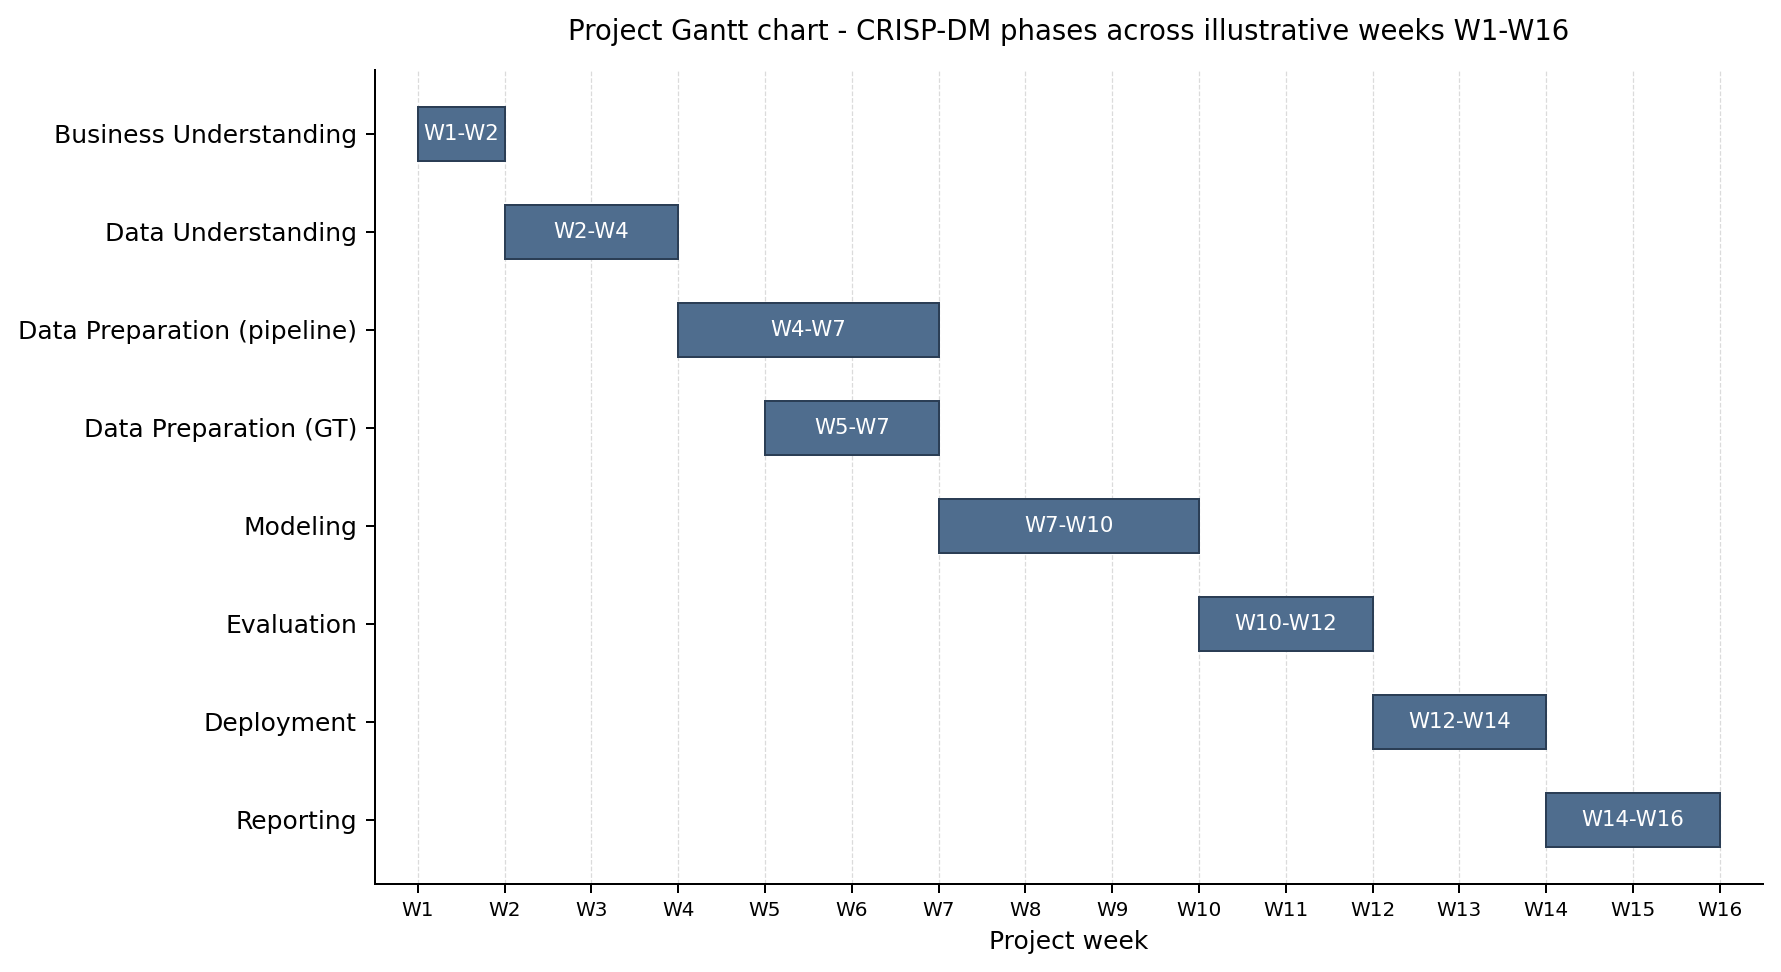
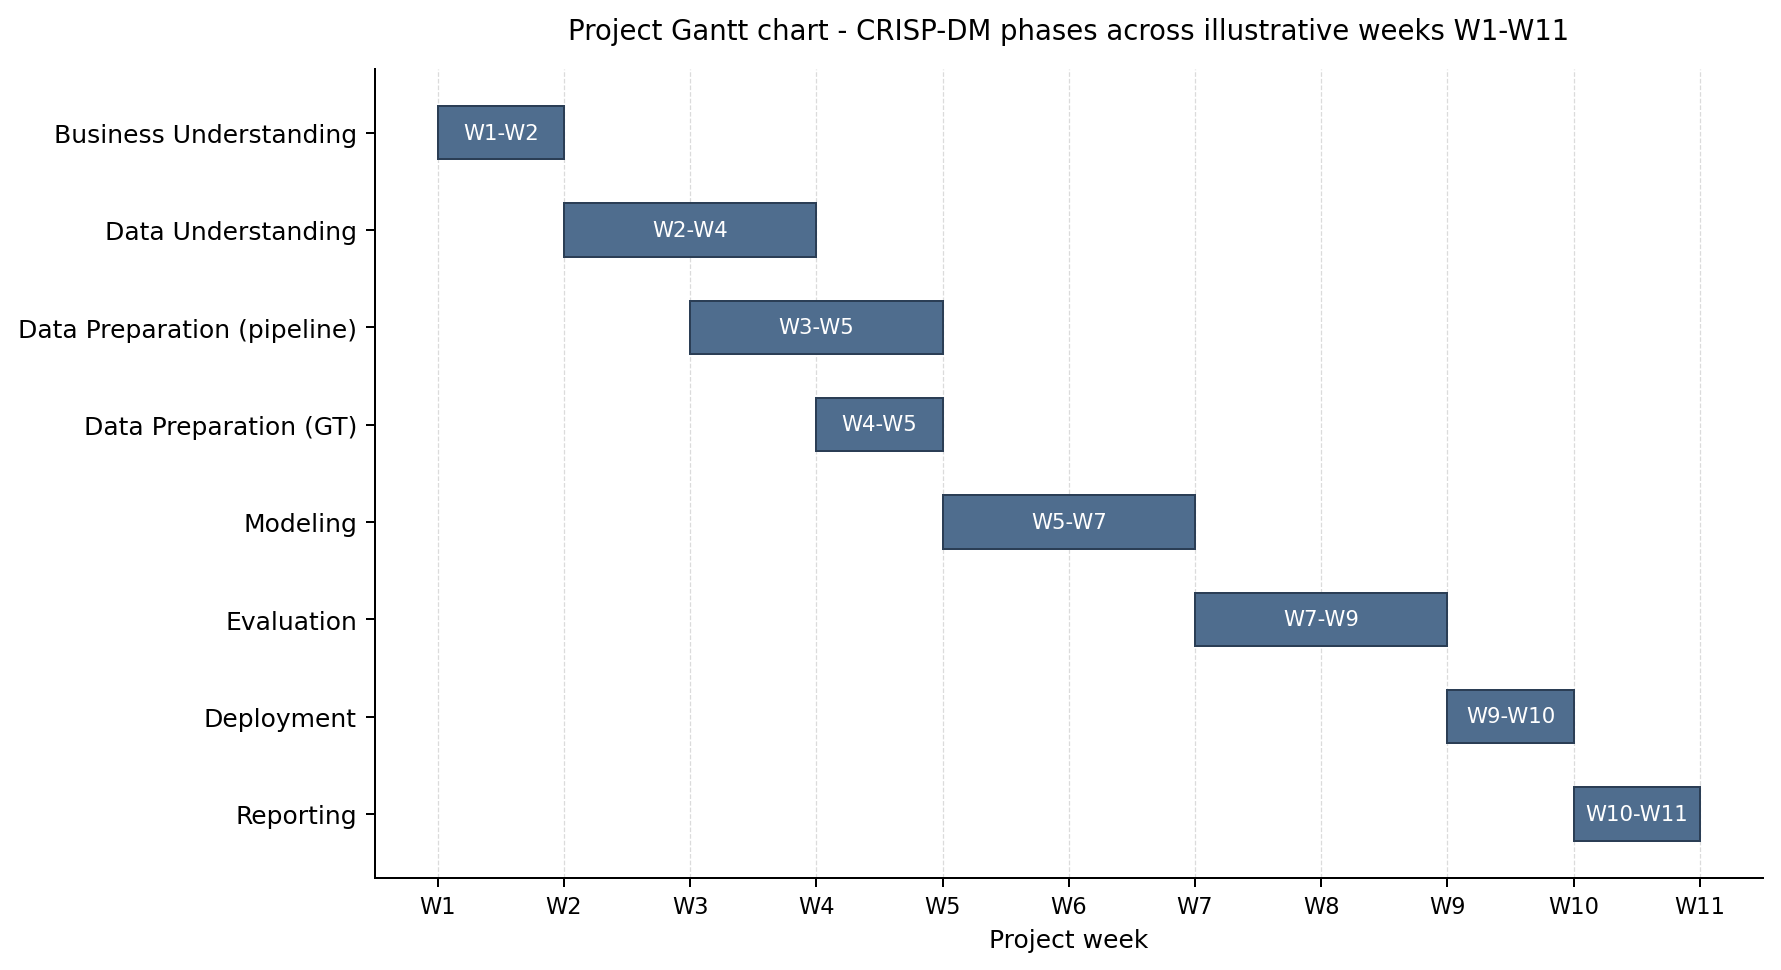
docs: compress Gantt to 11 weeks and add Mermaid source alongside PNG
Shrink the project timeline to W1-W11 per assessor guidance. Both the
PNG (regenerated by scripts/render_gantt.py) and Table 2 are updated to
the same compressed schedule. The same plan is now also expressed as a
Mermaid gantt source block in report.md, which renders directly in
GitHub and any Mermaid-aware viewer while pandoc continues to embed the
PNG for PDF and DOCX. Milestone weeks in section 4.3 and the
action_position discovery window in section 4.5 remapped to match.

diff --git a/scripts/render_gantt.py b/scripts/render_gantt.py
@@ -1,9 +1,13 @@
 """Render the project Gantt chart for the CRISP-DM timeline (Section 4.2).
 
 Produces a single PNG showing one horizontal bar per CRISP-DM phase across
-W1-W16, matching the phase plan in Table 2 of the report. Output is written
+W1-W11, matching the phase plan in Table 2 of the report. Output is written
 to outputs/figures/06_gantt_timeline.png and is committed alongside the
 other report figures.
+
+The schedule is intentionally compressed into eleven weeks to reflect the
+actual MSc Final Project window; overlapping bars between the pipeline and
+GT preparation tracks (W3-W5 and W4-W5) preserve the real concurrency.
 
 Usage:
     python scripts/render_gantt.py
@@ -19,13 +23,15 @@ FIG_PATH = Path(__file__).resolve().parent.parent / "outputs" / "figures" / "06_
 PHASES = [
     ("Business Understanding",          1,  2),
     ("Data Understanding",              2,  4),
-    ("Data Preparation (pipeline)",     4,  7),
-    ("Data Preparation (GT)",           5,  7),
-    ("Modeling",                        7, 10),
-    ("Evaluation",                     10, 12),
-    ("Deployment",                     12, 14),
-    ("Reporting",                      14, 16),
+    ("Data Preparation (pipeline)",     3,  5),
+    ("Data Preparation (GT)",           4,  5),
+    ("Modeling",                        5,  7),
+    ("Evaluation",                      7,  9),
+    ("Deployment",                      9, 10),
+    ("Reporting",                      10, 11),
 ]
+
+WEEK_MIN, WEEK_MAX = 1, 11
 
 
 def render(out_path: Path = FIG_PATH) -> Path:
@@ -62,9 +68,9 @@ def render(out_path: Path = FIG_PATH) -> Path:
     ax.set_yticklabels(labels, fontsize=10)
     ax.invert_yaxis()
 
-    ax.set_xlim(0.5, 16.5)
-    ax.set_xticks(range(1, 17))
-    ax.set_xticklabels([f"W{w}" for w in range(1, 17)], fontsize=8)
+    ax.set_xlim(WEEK_MIN - 0.5, WEEK_MAX + 0.5)
+    ax.set_xticks(range(WEEK_MIN, WEEK_MAX + 1))
+    ax.set_xticklabels([f"W{w}" for w in range(WEEK_MIN, WEEK_MAX + 1)], fontsize=9)
     ax.set_xlabel("Project week", fontsize=10)
 
     ax.grid(axis="x", linestyle="--", linewidth=0.5, color="#CCCCCC", alpha=0.7)
@@ -73,7 +79,7 @@ def render(out_path: Path = FIG_PATH) -> Path:
         ax.spines[spine].set_visible(False)
 
     ax.set_title(
-        "Project Gantt chart - CRISP-DM phases across illustrative weeks W1-W16",
+        f"Project Gantt chart - CRISP-DM phases across illustrative weeks W{WEEK_MIN}-W{WEEK_MAX}",
         fontsize=11,
         pad=12,
     )

diff --git a/report.md b/report.md
@@ -171,7 +171,7 @@ Develop a reproducible computer vision pipeline that extracts Pitch Control from
 
 ### 4.1 Planning Approach
 
-The project follows CRISP-DM's phased structure, with explicit feedback loops between Data Understanding and Data Preparation to accommodate mid-project corrections. The plan below is presented in illustrative weeks (W1 through W16) rather than calendar dates, reflecting the iterative nature of the work and the fact that several phases overlap.
+The project follows CRISP-DM's phased structure, with explicit feedback loops between Data Understanding and Data Preparation to accommodate mid-project corrections. The plan below is presented in illustrative weeks (W1 through W11) rather than calendar dates, reflecting the iterative nature of the work and the fact that several phases overlap.
 
 ### 4.2 Phase Plan
 
@@ -181,25 +181,43 @@ The project follows CRISP-DM's phased structure, with explicit feedback loops be
 |---|---|---|---|
 | W1–W2 | Business Understanding | Problem framing, stakeholder identification, set-piece literature review | Research questions locked |
 | W2–W4 | Data Understanding | StatsBomb Euro 2024 EDA, SoccerNet GSR scan, `action_position` audit | `setpieces.parquet`, `gt_spatial_benchmarks.parquet` |
-| W4–W7 | Data Preparation (pipeline track) | TVCalib integration, Soccana detection + ByteTrack, KMeans team assignment | `homographies_tvcalib.parquet`, `detections_soccana_tvcalib.parquet` |
-| W5–W7 | Data Preparation (GT track) | SoccerNet bbox_pitch parsing, ball-position cache | `detections_gt_full.parquet`, `ball_positions.parquet` |
-| W7–W10 | Modeling | Laurie Shaw TTI zero-velocity adaptation, PC surface computation | `pitch_control_*.parquet` |
-| W10–W12 | Evaluation | Distributional KS, paired Pearson/Spearman/MAE, bias diagnosis | `validation_summary_tvcalib.parquet`, `validation_paired.parquet` |
-| W12–W14 | Deployment | Broadcast-overlay visualizations, three-panel stills, animated GIF/MP4 | `still_*.png`, `anim_*.gif`, `video_*.mp4` |
-| W14–W16 | Reporting | Notebook narrative, thesis write-up, final review | `report.md`, executable notebooks |
+| W3–W5 | Data Preparation (pipeline track) | TVCalib integration, Soccana detection + ByteTrack, KMeans team assignment | `homographies_tvcalib.parquet`, `detections_soccana_tvcalib.parquet` |
+| W4–W5 | Data Preparation (GT track) | SoccerNet bbox_pitch parsing, ball-position cache | `detections_gt_full.parquet`, `ball_positions.parquet` |
+| W5–W7 | Modeling | Laurie Shaw TTI zero-velocity adaptation, PC surface computation | `pitch_control_*.parquet` |
+| W7–W9 | Evaluation | Distributional KS, paired Pearson/Spearman/MAE, bias diagnosis | `validation_summary_tvcalib.parquet`, `validation_paired.parquet` |
+| W9–W10 | Deployment | Broadcast-overlay visualizations, three-panel stills, animated GIF/MP4 | `still_*.png`, `anim_*.gif`, `video_*.mp4` |
+| W10–W11 | Reporting | Notebook narrative, thesis write-up, final review | `report.md`, executable notebooks |
 
-![Figure 1: Project Gantt chart showing the eight CRISP-DM phases across illustrative weeks W1–W16. Overlapping bars highlight that the pipeline and GT data-preparation tracks run partly in parallel.](outputs/figures/06_gantt_timeline.png)
+The same phase plan is also expressed as a Mermaid Gantt source block (renders directly in GitHub and any Mermaid-aware viewer) and as a pre-rendered PNG below (used by the PDF and DOCX builds).
+
+```mermaid
+gantt
+    title CRISP-DM phase plan (W1-W11)
+    dateFormat  X
+    axisFormat  W%w
+    section CRISP-DM
+    Business Understanding        :a1, 1, 1w
+    Data Understanding            :a2, 2, 2w
+    Data Preparation (pipeline)   :a3, 3, 2w
+    Data Preparation (GT)         :a4, 4, 1w
+    Modeling                      :a5, 5, 2w
+    Evaluation                    :a6, 7, 2w
+    Deployment                    :a7, 9, 1w
+    Reporting                     :a8, 10, 1w
+```
+
+![Figure 1: Project Gantt chart showing the eight CRISP-DM phases across illustrative weeks W1–W11. Overlapping bars highlight that the pipeline and GT data-preparation tracks run partly in parallel.](outputs/figures/06_gantt_timeline.png)
 
 ### 4.3 Key Milestones
 
 1. **Research scope locked** (end W2): primary validation dataset, set-piece classes, success criteria all defined.
-2. **TVCalib batch complete** (W6): 1,023 homographies computed for all 33 clips, removing GT pitch-line dependency at inference.
-3. **`action_position` data-quality discovery** (W6–W7): mid-project finding that `action_position` is a global broadcast frame number, not a clip-local index. Required rewriting the frame-window logic before modelling could produce correct outputs.
-4. **First end-to-end pipeline run** (W9): pipeline runs all 33 clips end-to-end with zero homography failures.
-5. **Validation cohort frozen at 31 clips** (W10): SNGS-125 and SNGS-145 excluded from the PC phase due to missing ball annotations in the window.
-6. **KS validation table complete** (W11): per-metric distributional comparison published with no selective reporting.
-7. **Three-way error taxonomy identified** (W12): the partition into calibrated, underestimated, and inverted metrics emerges from the paired analysis.
-8. **Final deliverables ready** (W16): committed Parquet outputs, executable notebooks, thesis report, and overlay visualizations.
+2. **TVCalib batch complete** (W4): 1,023 homographies computed for all 33 clips, removing GT pitch-line dependency at inference.
+3. **`action_position` data-quality discovery** (W4–W5): mid-project finding that `action_position` is a global broadcast frame number, not a clip-local index. Required rewriting the frame-window logic before modelling could produce correct outputs.
+4. **First end-to-end pipeline run** (W6): pipeline runs all 33 clips end-to-end with zero homography failures.
+5. **Validation cohort frozen at 31 clips** (W7): SNGS-125 and SNGS-145 excluded from the PC phase due to missing ball annotations in the window.
+6. **KS validation table complete** (W8): per-metric distributional comparison published with no selective reporting.
+7. **Three-way error taxonomy identified** (W8–W9): the partition into calibrated, underestimated, and inverted metrics emerges from the paired analysis.
+8. **Final deliverables ready** (W11): committed Parquet outputs, executable notebooks, thesis report, and overlay visualizations.
 
 ### 4.4 Constraints and Dependencies
 
@@ -218,7 +236,7 @@ The project follows CRISP-DM's phased structure, with explicit feedback loops be
 
 ### 4.5 Risk and Mitigation
 
-The most material project risk that materialised was the `action_position` misinterpretation: the pipeline was initially processing end-of-clip open-play frames instead of set-piece formations. This was caught during qualitative inspection of intermediate outputs in W6, fixed by computing the centre frame as `FRAME_WINDOW + 1 = 16` rather than treating `action_position` as a clip-local index, and documented as a methodological contribution. The mitigation lesson is that intermediate visual inspection is essential when the pipeline produces metrics that look plausible in aggregate but are semantically wrong.
+The most material project risk that materialised was the `action_position` misinterpretation: the pipeline was initially processing end-of-clip open-play frames instead of set-piece formations. This was caught during qualitative inspection of intermediate outputs in W4–W5, fixed by computing the centre frame as `FRAME_WINDOW + 1 = 16` rather than treating `action_position` as a clip-local index, and documented as a methodological contribution. The mitigation lesson is that intermediate visual inspection is essential when the pipeline produces metrics that look plausible in aggregate but are semantically wrong.
 
 ---
 
